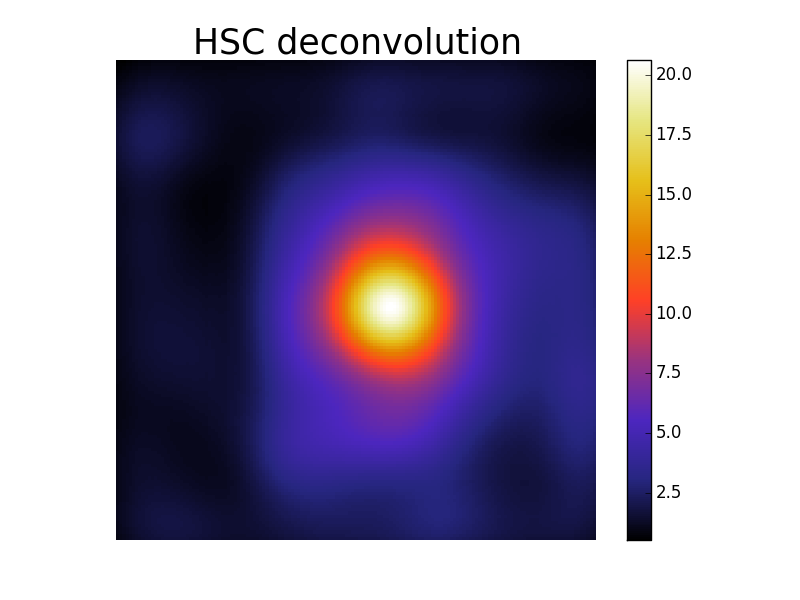
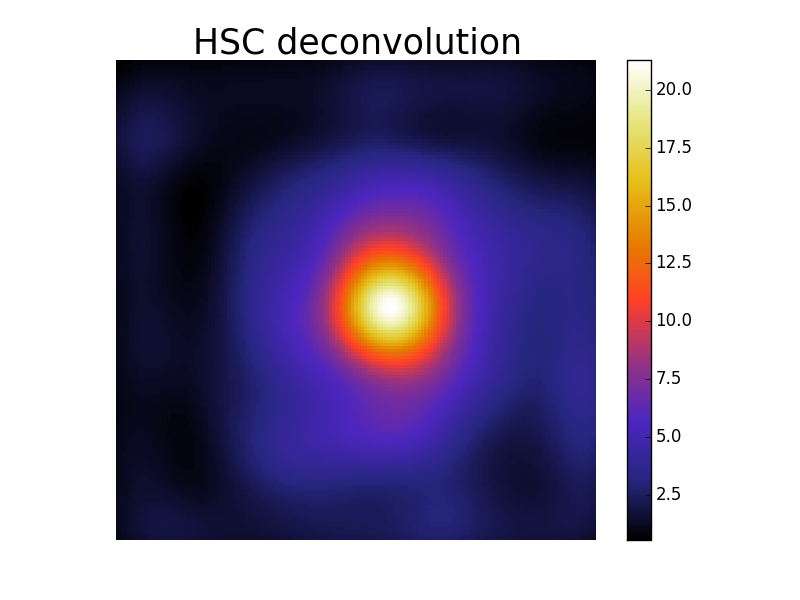
python2.7

diff --git a/HSTC.py b/HSTC.py
@@ -70,7 +70,7 @@ plt.show()
 
 #HST coordinates
 ###########works
-x0 = 5388-6 #9132
+x0 = 5388 #9132
 y0 = 14579#10825
 excess =75
 xstart =x0-excess
@@ -108,13 +108,13 @@ yp_wcs = yyp_wcs.flatten()
 n1 = np.int(x_HST.size**0.5)
 n2 = np.int(y_HST.size**0.5)
 
-plt.plot(x_HST,y_HST,'or')
-plt.plot(X_HST,Y_HST, 'ob')
+#plt.plot(x_HST,y_HST,'or')
+#plt.plot(X_HST,Y_HST, 'ob')
 #plt.plot(xp_wcs,yp_wcs, 'og')
-plt.show()
+#plt.show()
 
-cut_HST = FHST[x_HST-4, y_HST-6].reshape(n1,n2)#[np.int(np.min(x)):np.int(np.max(x)), np.int(np.min(y)):np.int(np.max(y))]#[5170:5220,172:222]
-cut_HSC = FHSC[X_HSC.astype(int),Y_HSC.astype(int)]#[np.int(np.min(X)):np.int(np.max(X)), np.int(np.min(Y))+1:np.int(np.max(Y))]
+cut_HST = FHST[x_HST-8, y_HST-4].reshape(n1,n2)#-4-6#[np.int(np.min(x)):np.int(np.max(x)), np.int(np.min(y)):np.int(np.max(y))]#[5170:5220,172:222]
+cut_HSC = FHSC[X_HSC.astype(int)-1,Y_HSC.astype(int)]#[np.int(np.min(X)):np.int(np.max(X)), np.int(np.min(Y))+1:np.int(np.max(Y))]
 N1 = np.int(X_HSC.size**0.5)
 N2 = np.int(Y_HSC.size**0.5)
 
@@ -146,7 +146,7 @@ lists.writeto('../HS_TC/Cut_HSC.fits', clobber=True)
 
 xp,yp = np.where(PSF_HST*0 == 0)
 
-compute = 0
+compute = 1
 if compute:
     print('Computing Low Resolution matrix')
     mat_HSC = tools.make_mat2D_fft(x_HST, y_HST, X_HST, Y_HST, PSF_HSC_data_HR)
@@ -156,22 +156,24 @@ if compute:
     lists.writeto('../HS_TC/Mat_HSC_'+str(n1)+'.fits', clobber=True)
 
     print('Computing High Resolution matrix')
-    mat_HST = tools.make_mat2D_fft(x_HST, y_HST, x_HST, y_HST, PSF_HST)
+    #mat_HST = tools.make_mat2D_fft(x_HST, y_HST, x_HST, y_HST, PSF_HST)
+    h = x_HST[1]-x_HST[0]
+    HR_filter = tools.make_vec2D_fft(x_HST, y_HST,x_HST[n1*n2/2], y_HST[n1*n2/2], PSF_HST, h).reshape(n1,n2)
 
-    hdus = fits.PrimaryHDU(mat_HST)
-    lists = fits.HDUList([hdus])
-    lists.writeto('../HS_TC/Mat_HST_'+str(n1)+'.fits', clobber=True)
+ #   hdus = fits.PrimaryHDU(mat_HST)
+ #   lists = fits.HDUList([hdus])
+ #   lists.writeto('../HS_TC/Mat_HST_'+str(n1)+'.fits', clobber=True)
 
 if np.abs(compute-1):
     mat_HSC = fits.open('../HS_TC/Mat_HSC_'+str(n1)+'.fits')[0].data
     mat_HST = fits.open('../HS_TC/Mat_HST_'+str(n1)+'.fits')[0].data
 
 def filter_HR(x):
-    return scarlet.transformation.LinearFilter(mat_HST[:,np.int(n1*n1/2)].reshape(n1,n2)).dot(x)
+    return scarlet.transformation.LinearFilter(HR_filter).dot(x)#mat_HST[:,np.int(n1*n1/2)].reshape(n1,n2)
 def filter_HRT(x):
-    return scarlet.transformation.LinearFilter(mat_HST[np.int(n1*n1/2),:].reshape(n1,n2).T).dot(x)
+    return scarlet.transformation.LinearFilter(HR_filter.T).dot(x)#mat_HST[:,np.int(n1*n1/2)].reshape(n1,n2)
 
-niter = 50
+niter = 250
 Sall, SHR, SLR = tools.Combine2D_filter(cut_HST, cut_HSC.flatten(), filter_HR, filter_HRT, mat_HSC, niter, verbosity = 1)
 #Sall, SHR, SLR = tools.Combine2D(cut_HST.flatten(), cut_HSC.flatten(), mat_HST, mat_HSC, niter, verbosity = 1)
 
@@ -206,7 +208,7 @@ if 1:
     plt.axis('off')
     plt.savefig('HST_deconvolution.png')
     plt.figure(3)
-    plt.imshow(np.dot(Sall, mat_HST).reshape(n1,n2), interpolation = 'none', cmap = 'CMRmap')
+    plt.imshow(filter_HR(Sall.reshape(n1,n2)), interpolation = 'none', cmap = 'CMRmap')
     plt.colorbar()
     plt.title('HST joint model', fontsize = font)
     plt.axis('off')
@@ -231,7 +233,7 @@ if 1:
     plt.axis('off')
     plt.figure(8)
     plt.title('HST deconvolution model', fontsize = font)
-    plt.imshow(np.dot(SHR, mat_HST).reshape(n1,n2), interpolation = 'none', cmap = 'CMRmap')
+    plt.imshow(filter_HR(SHR.reshape(n1,n2)), interpolation = 'none', cmap = 'CMRmap')
     plt.savefig('HST_deconvolution_model.png')
     plt.colorbar()
     plt.axis('off')
@@ -243,7 +245,7 @@ if 1:
     plt.savefig('HSC_deconvolution_model.png')
     plt.figure(10)
     plt.title('Residual joint HST', fontsize = font)
-    plt.imshow(cut_HST - np.dot(Sall, mat_HST).reshape(n1,n2), interpolation = 'none', cmap = 'CMRmap')
+    plt.imshow(cut_HST - filter_HR(Sall.reshape(n1,n2)), interpolation = 'none', cmap = 'CMRmap')
     plt.colorbar()
     plt.axis('off')
     plt.savefig('Residual_joint_HST.png')
